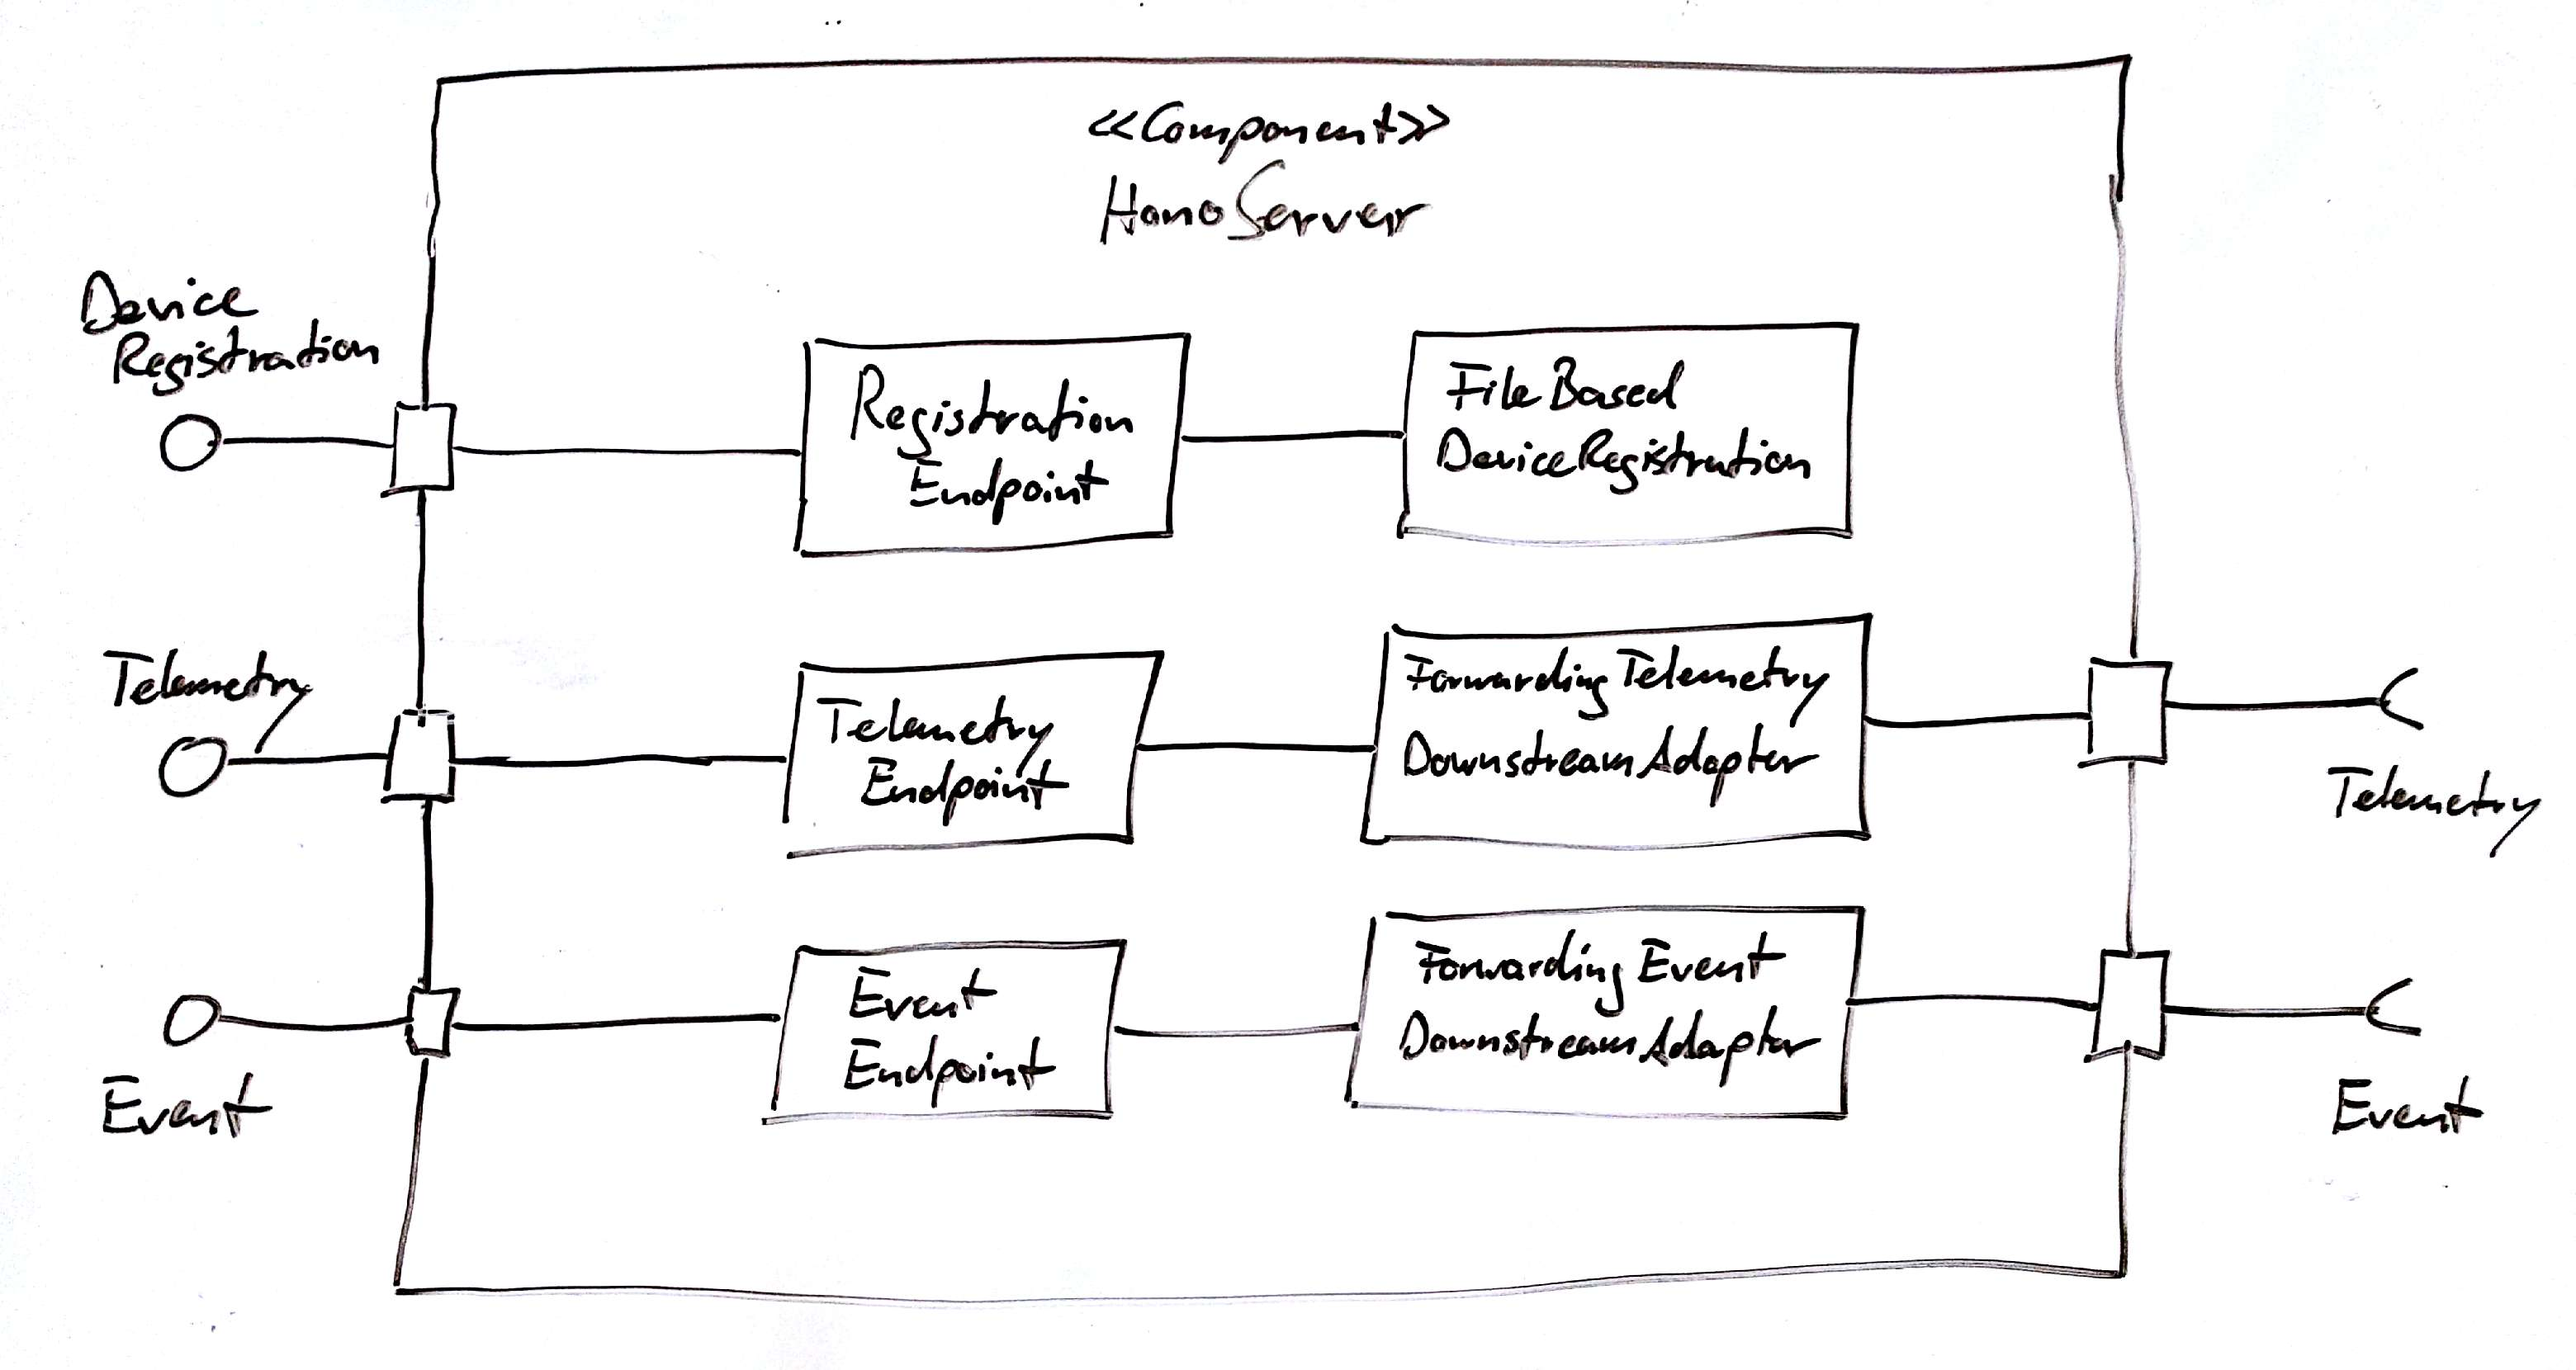
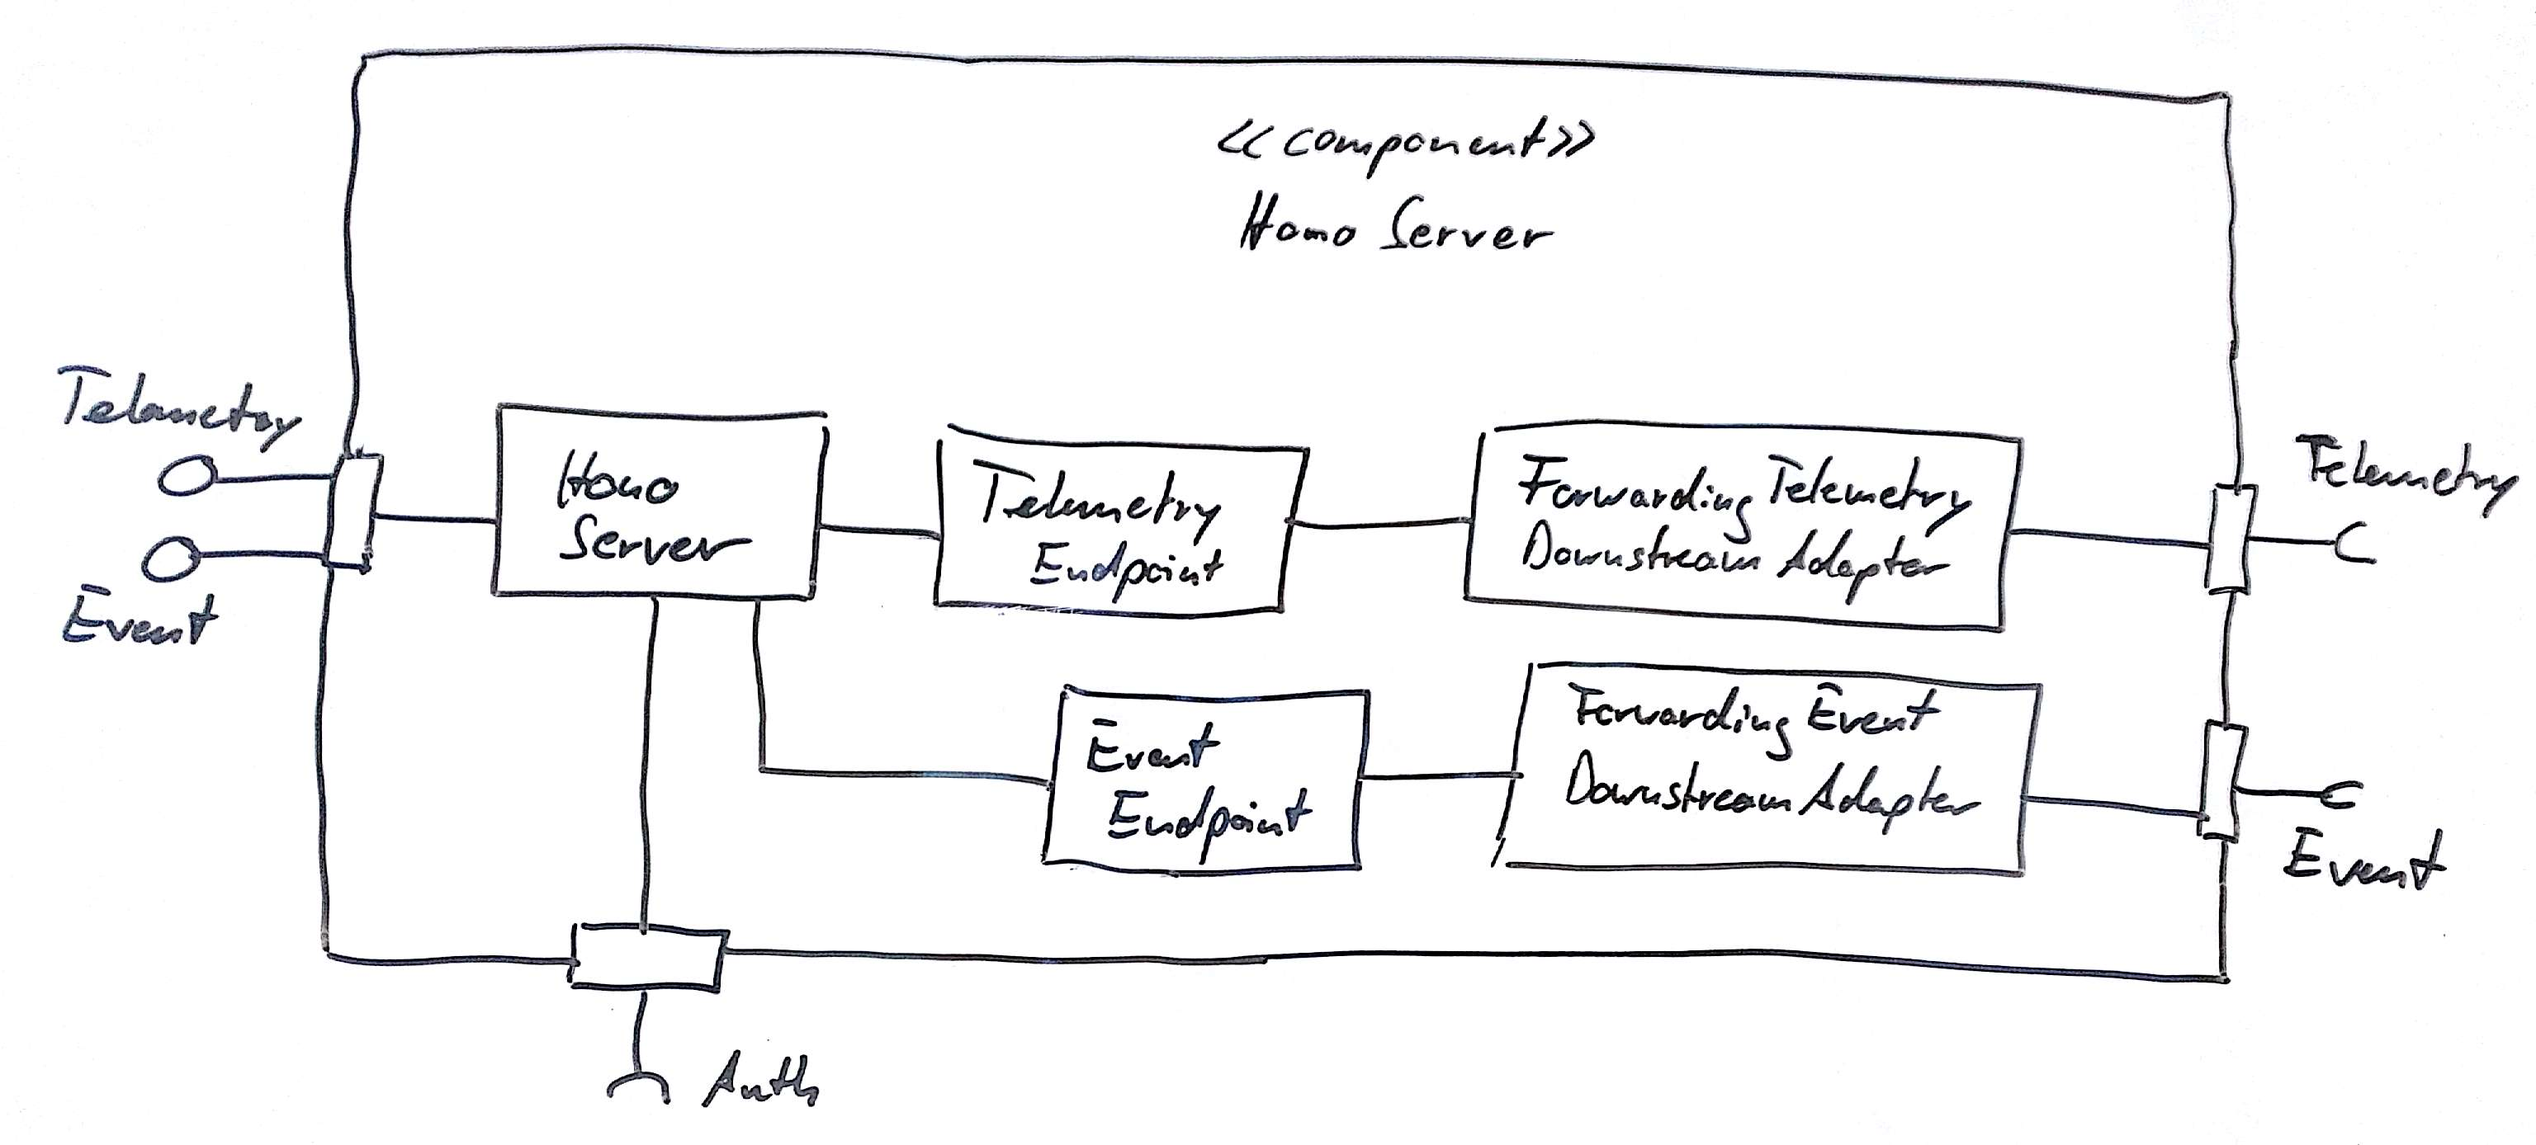
Update diagrams to reflect current architecture.

diff --git a/site/content/architecture/component-view/Component-View.md b/site/content/architecture/component-view/Component-View.md
@@ -12,7 +12,9 @@ The diagram below provides an overview of the top level *logical* components.
 
 {{< figure src="../Top-Level.jpg" >}}
 
-The *MQTT* and *Rest Potocol Adapters* use the *Hono Server* component to upload telemetry data and events provided by connected *Devices*. The Hono Server authorizes the messages sent by the protocol adapters and forwards the messages to the downstream *AMQP 1.0 Messaging Network* for delivery to consuming *Business Applications*.
+The *MQTT* and *Rest Potocol Adapters* use the *Device Registry* to assert the registration status of *Devices* connecting to the adapters. The *Device Registry* issues a token asserting the status which the protocol adapters include when forwarding telemetry data and events to the *Hono Server* component. The *Hono Server* verifies the device registration status by means of validating the token and forwards the messages to the downstream *AMQP 1.0 Messaging Network* for delivery to consuming *Business Applications*.
+
+Both *Hono Server* and *Device Registry* use the *Auth Server* to authenticate the protocol adapters during connection establishment.
 
 All interactions between the components are abased on AMQP 1.0 message exchanges as defined by the [Device Registration API]({{< relref "api/Device-Registration-API.md" >}}), [Telemetry API]({{< relref "api/Telemetry-API.md" >}}) and [Event API]({{< relref "api/Event-API.md" >}}).
 
@@ -20,11 +22,17 @@ All interactions between the components are abased on AMQP 1.0 message exchanges
 
 The diagram below provides an overview of the *Hono Server* component's internal structure.
 
-{{< figure src="../Hono-Server.jpg" >}}
+{{< figure src="../Hono-Server.jpg" width="80%" >}}
 
-Hono Server exposes both an implementation of the Telemetry as well as the Event API. The messages received from the protocol adapters are validated by the *TelemetryEndpoint* and *EventEndpoint* correspondingly. The messages' format is checked for compliance with the APIs and the message originator's registration status is verified by means of a JSON Web Token included in the message application properties.
+Hono Server implements both the Telemetry as well as the Event API. Clients opening a connection to *HonoServer* are authenticated by means of an external service accessed via the *Auth* port. Messages received from a client are validated by the *TelemetryEndpoint* and *EventEndpoint* correspondingly. The messages' format is checked for compliance with the APIs and the message originator's registration status is verified by means of a JSON Web Token (JWT) included in the message application properties. Finally, the messages are forwarded to a downstream component by the *ForwardingTelemetryDownstreamAdapter* and *ForwardingEventDownstreamAdapter* respectively.
 
-The Hono Server also provides a *default* implementation of the Device Registration API. The Device Registration implementation stores registration information in the local file system and cannot be scaled out horizontally (across multiple instances of Hono Server). The default implementation is therefore mainly intended to be used for demonstration purposes and PoCs. In real world scenarios, the default implementation can be disabled and the Telemetry and Event endpoints can be configured to be used with a dedicated Device Registration service implementation. Such an implementation should be deployed separately and use a persistent store that can be shared by multiple instances.
+## Device Registry
+
+The diagram below provides an overview of the *Device Registry* component's internal structure.
+
+{{< figure src="../Device-Registry.jpg" width="70%" >}}
+
+The *Device Registry* component implements the [Device Registration API]({{< relref "api/Device-Registration-API.md" >}}). Clients opening a connection to *SimpleDeviceRegistryServer* are authenticated by means of an external service accessed via the *Auth* port. The *FileBasedRegistrationService* stores all registration information in the local file system. The *Device Registry* is therefore not recommended to be used in production environments because the component cannot easily scale out horizontally. It is mainly intended to be used for demonstration purposes and PoCs. In real world scenarios, a more sophisticated implementation should be used that is designed to scale out, e.g. using a persistent store for keeping device registration information that can be shared by multiple instances.
 
 ## AMQP 1.0 Messaging Network
 
